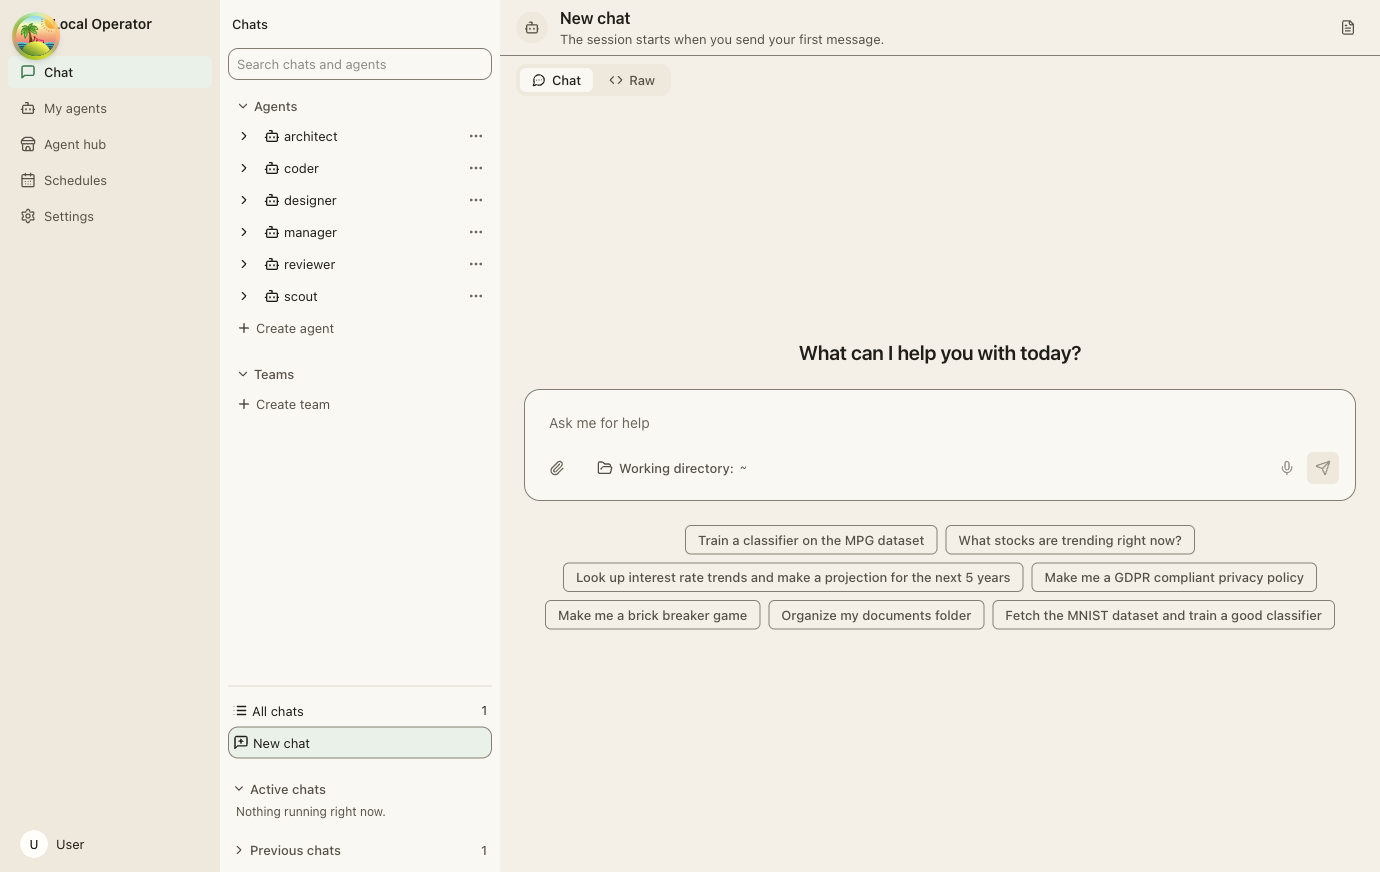
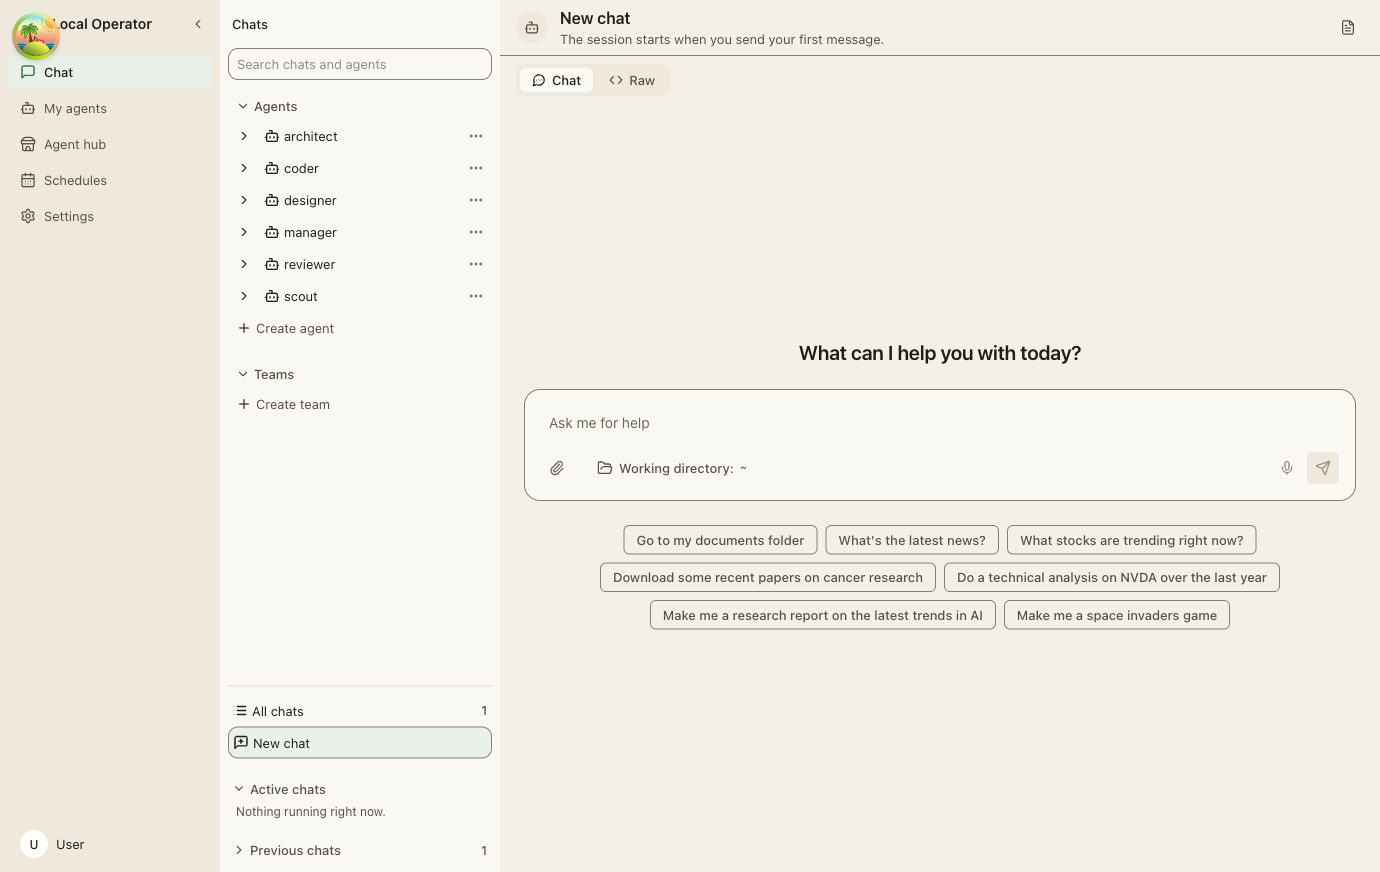
fix(chat): pin the working surface's ground at its call site, correct the evidence
Remediation for the three review rounds on PR #113. No rendered behaviour
changes: the swap itself was approved by all three streams, and this commit is
one gate plus the evidence file it makes honest.

R1-2: the swap was enforced only by prose. `on: ["canvas"]` is a palette-only
assertion - `canvas` clears every floor however it is used - so repainting the
column `surface` again would merge it back into the list panel with every gate
green (the divider between them is `w-0` and draws nothing). The call site is
where that can be undone, so the invariant now has a `STRUCTURAL_CALL_SITES`
row: chat-content.tsx must still contain `bg-canvas`, or `pnpm check-themes`
fails. Mutation-tested: reverting the class to `bg-surface` fails the named
assertion, restoring it passes. 1910 -> 1911 assertions, 0 pinned exceptions.

D1 / R1-1: the fourth colour at the column/dock boundary is not a scrollbar. It
is the dock container's own `border-l border-hairline` - one uniform colour
across all 872 rows including the header band and the composer row, where no
scroll container reaches - measuring ΔE00 5.26 (light) / 10.21 (dark) from the
canvas under it, above the rail's own 4.38 / 4.07. The paragraph now says what
marks the dock: that hairline plus its `sunken` header band. The earlier
verification (and the "hiding scrollbars" inference) was wrong and is withdrawn.
D3: the range's loud end (synth 6.56) and the thinnest rail margin (obsidian,
[…]

Changed region(s): [[0.4051, 0.5883, 0.9659, 0.7122]]

diff --git a/docs/evidence/chat-shell/README.md b/docs/evidence/chat-shell/README.md
@@ -15,9 +15,11 @@ as `scripts/capture-evidence.mjs`.
 
 That means the account is signed in, the agent list, sessions and transcripts
 are genuine backend responses, and the populated frames are a real conversation
-with real tool rows. The 12-theme sweep is deliberately **not** regenerated
-here; these are `localOperatorDark` only, which is the default theme and the one
-the reported screenshot was taken in.
+with real tool rows. The 12-theme sweep is deliberately **not** regenerated in
+this earlier set, which is `localOperatorDark` only - the default theme and the
+one the reported screenshot was taken in. The sets added further down for the
+working-surface ground are the exception: they render both brand palettes, plus
+`iceberg`, the tightest end of the range.
 
 **How the transcript in the populated frames was produced (round 2).** The
 agent prose is real rendered prose, not a mock: the transcript is seeded
@@ -205,6 +207,19 @@ conversation at the same window size:
 **The 120px figure and the improvement claim were both withdrawn in round 1**,
 after re-capture put this branch at 140px against `origin/main`'s 128px. See
 below.
+
+**Provenance of the `origin/main` row (measured by QA in round 1 of the ground
+change, and recorded rather than edited).** Those three numbers describe
+**v0.16.0**, not this branch's base `2217ea59a`: `git show
+v0.16.0:src/renderer/src/app.tsx` is `<div className="flex h-screen
+overflow-hidden">`, while v0.17.0 and `2217ea59a` both carry `relative` (the
+document-scroll fix). Re-measured on `2217ea59a` with the same dock-open
+populated chat, the row (`relative flex h-full w-full flex-row overflow-hidden`)
+gives **140px** overflow, header **56px** (`h-14`), document overflow **0** -
+identical to this branch. So "about 12px worse than `origin/main`" is a
+statement about v0.16.0, not about the base this branch is cut from; the numbers
+above are left as measured because nobody has re-measured a tree that still
+renders v0.16.0.
 
 The cause is a 450px-minimum canvas plus a 220px-minimum chat column plus a
 900px-preferred transcript demanding more width than the row has; fixing it
@@ -592,10 +607,13 @@ literals, every ternary branch inside a `cn()` call, and the UPPERCASE class
 constants those elements reference (resolved locally and through named
 imports). The rule asserted: no ancestor of the popup may carry an overflow
 class other than `visible`, a max-height, or an inline overflow, on the axis
-`bottom-full` escapes along; the band itself is identified by the composed
-`shrink-0` + `bg-surface` set (the discriminator QA used, which deliberately
-does not match the transcript scroller). If the scanner can no longer balance
-the file's tree, the guard FAILS rather than passing green.
+`bottom-full` escapes along; the band itself is identified by its
+`data-lo-composer-band` attribute (which deliberately does not match the
+transcript scroller). That sentence previously said the guard finds the band by
+the composed `shrink-0` + `bg-surface` set - which is what the guard never
+matched, and `bg-surface` has since been removed from the band altogether
+(`message-input.tsx`), so it was both imprecise and stale. If the scanner can no
+longer balance the file's tree, the guard FAILS rather than passing green.
 
 Four mutants, four killed, each applied with its diff shown, parse-checked
 with esbuild, and restored byte-identical between runs:
@@ -746,9 +764,17 @@ are the same pair the rendered table measures:
 
 Every palette clears the ~2.0 perceptual threshold § 3 of `docs/branding.md`
 cites, and `surface`→`sunken` (the rail's step) is stronger than
-`surface`→`canvas` in all twelve — the narrowest gap between the two is sage
-(2.24 against 5.27). `pnpm check-themes` asserts both pairs as adjacent grounds,
-so neither is maintained by hand.
+`surface`→`canvas` in all twelve. Two bounds belong next to that claim rather
+than behind one number. **The loud end of the new pair is synth 6.56** (radient
+6.37, tokyoNight 5.49), so a synth user gets a step about three times iceberg's;
+**the quiet end is iceberg 2.11**, which is the step that palette already draws
+between every card and its page - § 3 names iceberg's 2.1 as sufficient where a
+1.5 was not - so chat adopts an existing magnitude rather than introducing one.
+And **the rail's margin is thinnest in obsidian**, where its 4.49 is only
+**1.18x** the 3.80 step (then radient 1.38x, dracula 1.44x): the 1.9x/1.6x the
+brand frames show is not the worst case. If that margin ever needs widening, the
+lever is the palette, not this column. `pnpm check-themes` asserts both pairs as
+adjacent grounds, so neither is maintained by hand.
 
 ## The dock, open
 
@@ -792,30 +818,63 @@ and nothing else: not the rail, not the list panel, and not one pixel of the
 dock. That is the strongest statement this pair makes: the dock's rendering is
 identical before and after, and what moved is which ground the column carries.
 
-One thing this pair does **not** cover, and the reason is a real one: with a
-document open the dock's document area takes the section's `surface`
-(`canvas/index.tsx` renders the section as `bg-surface` with a `sunken` header),
-so the step at the column/dock boundary returns — the dock then reads as a
-panel over the working surface. Reaching a document requires the dock's "New
-file" / "Open file" actions, which call `createFile` and write to disk
-(`utils/file-creation`), so it was not done in this workspace. That case is
-**code-level reasoning, not a measurement**, and is called out as such.
+One thing this pair does **not** cover is the dock's document-open state, and
+that case is no longer left as reasoning: **QA measured it.** Driving the dock's
+own "New file" flow (which does not call `createFile`) with a document open, the
+dock renders `surface` against the `canvas` column, so the step returns at that
+boundary in the other direction while the list/column seam stays 2.54. The
+code-reading conclusion above is therefore confirmed by a round that did not
+share this harness. What remains unattributed to a frame is only this set's own
+capture of it: reaching that state from here would mean writing a file into the
+operator's workspace (`utils/file-creation`).
 
-### One pixel that is not a rule
+### The pixel that marks the dock is a rule, and it is the dock's own border
 
 The nine-pixel run across the column/dock boundary contains a fourth colour in
-both halves of the pair: `#343024` (dark) / `#DCD8CF` (light), one unit off each
-palette's `hairline`. It is **the transcript scroller's native scrollbar**, not
-a painted boundary rule: the dock-open column is 220px wide, the transcript
-overflows in it, and the platform paints a scrollbar themed through the
-`color-scheme` the palette emits. Confirmed two ways — every element at that x
-computes `background-color: rgba(0,0,0,0)` with `border-*-width: 0px`, and the
-resize divider's own line is `bg-control` at `opacity: 0` at rest (read from the
-live DOM); and hiding scrollbars at runtime removes the pixel entirely while
-nothing else in the row changes. It is identical in the before and after
-frames, so it is not part of this change either way.
+both halves of the pair: `#343024` (dark) / `#DCD8CF` (light), which is each
+palette's own `hairline` after the capture's one-unit colour conversion. It is
+**not** a scrollbar. It is the dock container's own `border-l border-hairline`
+(`chat-content.tsx`), whose left edge is exactly x=720 and which `h-full` gives
+the full window height: measured in all four dock-open frames, x=720 is one
+uniform colour across **all 872 rows, y=0..871** — including the header band and
+the composer row, where no scroll container reaches. A scrollbar is not one
+pixel wide and cannot paint outside the scroller it belongs to.
+
+So the working surface and the dock are separated by a painted rule rather than
+a bare ground step, and that rule is **pre-existing and unchanged** by this
+change (the pair's diff is confined to x=500..719, so x=720 is byte-identical
+between the halves). It measures **ΔE00 5.26** from the canvas under it in
+`localOperatorLight` and **10.21** in `localOperatorDark` (contrast 1.41) —
+above the rail's own 4.38 / 4.07. With the dock open, then, the strongest
+vertical *edge* in the window is the dock divider, while the rail remains the
+strongest ground *step*. Both stay: a resizable split needs a visible edge, and
+the boundary this PR adds between the list panel and the working surface stays
+bare. What marks the dock is that hairline **plus** its own `sunken` 40px header
+band — not the chrome alone, which is what an earlier version of this paragraph
+claimed.
 
 ## The frames
+
+### The light empty pair, and what can still differ between the halves
+
+The `localOperatorLight` and `iceberg` empty pairs were recaptured through the
+harness with the synthetic pointer parked at 4,4 and nothing focused, so the
+transient UI state a first pass left in them is gone: the earlier light pair had
+the composer's accent focus ring in one half only, and a hover highlight on a
+sidebar row (`+ Create agent`, 7942 pixels) in its before half. In the committed
+pair the sidebar is **byte-identical** (0 differing pixels across x=220-499, the
+whole list panel) and the composer carries its resting `border-control` edge in
+both halves.
+
+One difference is **not** removable, and it is the application's own: the
+empty-state suggestion chips are drawn from a randomised pool at mount
+(`message-input.tsx`: `[...initialSuggestions].sort(() => Math.random() - 0.5)`),
+so the two halves of every empty pair necessarily carry different chips - and
+because the empty block is laid out from its content, the composer sits a few
+pixels higher or lower between them. The ground claim does not rest on the empty
+frames' content: it rests on the numbers in the table above (0 → 2.18 across
+that boundary in both halves), on the populated and dock pairs, and on the
+pixel-diff bounding boxes, which show nothing outside the column changed.
 
 | Frame pair | What it shows |
 | --- | --- |
@@ -823,16 +882,35 @@ frames, so it is not part of this change either way.
 | [before-ground-empty-loLight.png](before-ground-empty-loLight.png) / [after-ground-empty-loLight.png](after-ground-empty-loLight.png) | The same, light. The step is a slightly deeper cream inside the same warm family; the light themes are where a 2.2 ΔE00 step is most easily lost, which is why both brand themes are captured rather than the default one. |
 | [before-ground-populated-loDark.png](before-ground-populated-loDark.png) / [after-ground-populated-loDark.png](after-ground-populated-loDark.png) | The same pair over a populated transcript (fixture prose, 60 rows). Confirms the step is a property of the ground and not of the empty state's content. |
 | [before-ground-populated-loLight.png](before-ground-populated-loLight.png) / [after-ground-populated-loLight.png](after-ground-populated-loLight.png) | The same, light. |
+| [before-ground-empty-iceberg.png](before-ground-empty-iceberg.png) / [after-ground-empty-iceberg.png](after-ground-empty-iceberg.png) | The tightest theme in the range, rendered rather than computed: the step renders at **2.11**, the token's own value, against an iceberg rail step of **3.75** (1.78x). Iceberg is the palette closest to the contract's threshold and the one a design round asked to see a frame of. |
 | [before-ground-canvas-loDark.png](before-ground-canvas-loDark.png) / [after-ground-canvas-loDark.png](after-ground-canvas-loDark.png) | Canvas dock open, dark, populated transcript. Before: the column matches the list panel and the dock's own ground steps away from it. After: the column steps from the list panel and shares the dock's ground. |
 | [before-ground-canvas-loLight.png](before-ground-canvas-loLight.png) / [after-ground-canvas-loLight.png](after-ground-canvas-loLight.png) | The same, light. |
 
 ## What these frames do not prove
 
-- **Ten of the twelve themes are token-derived, not rendered.** The two brand
-  palettes are rendered; the table above is arithmetic on the palettes.
+- **Nine of the twelve themes are token-derived, not rendered.** Three are
+  rendered: `localOperatorDark`, `localOperatorLight` and `iceberg` (the tightest
+  end of the range); the twelve-row table above is arithmetic on the palettes.
 - **The populated content is a fixture conversation** written by another
   session's paging harness, not a real chat.
-- **The dock's with-a-document state is not captured.** See "The dock, open"
-  above: it would need a file written to disk.
+- **The legacy transcript scroller (`messages-view.tsx`) is changed but not
+  framed.** It is the non-canonical path and could not be reached by driving the
+  app - canonical sessions render the canonical transcript and the dev-only Raw
+  tab renders the raw JSON view - which QA recorded as BLOCKED for the same
+  reason. The change there is inherit-only (the element names no ground), so it
+  cannot disagree with its column. Source-level claim, not a measurement.
+- **The state assertions are not reproducible from this repository.** Each frame
+  asserts its own state before it is written - a populated frame must report
+  more than five rows in the transcript's own sr-only perf line, an empty frame
+  must report zero rows *and* the greeting *and* the composer band, the document
+  must carry the requested `data-theme`, and no frame may contain the first-run
+  onboarding overlay - but the harness is not committed, the same limitation the
+  #101 set records. The asserted values are recorded here instead: `rows=60` for
+  both populated pairs, `rows=0` plus the greeting for the empty pairs,
+  `data-theme` equal to the palette named in the filename, and no onboarding
+  overlay in any frame of this set. Everything the tables ask a reader to believe
+  *about the boundary* is reproducible from the committed PNGs.
+- **The dock's with-a-document state is not in this set** (QA measured it; see
+  "The dock, open").
 - The dev framing includes the `Chat | Raw` tab row, which a packaged build does
   not render; it is present identically in both halves of every pair.
